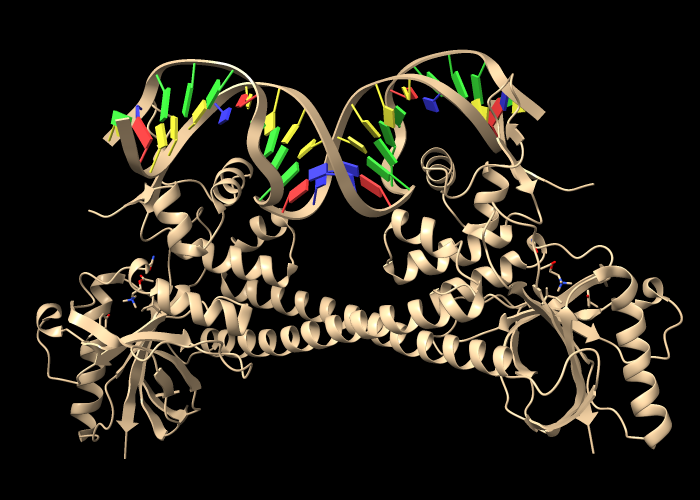
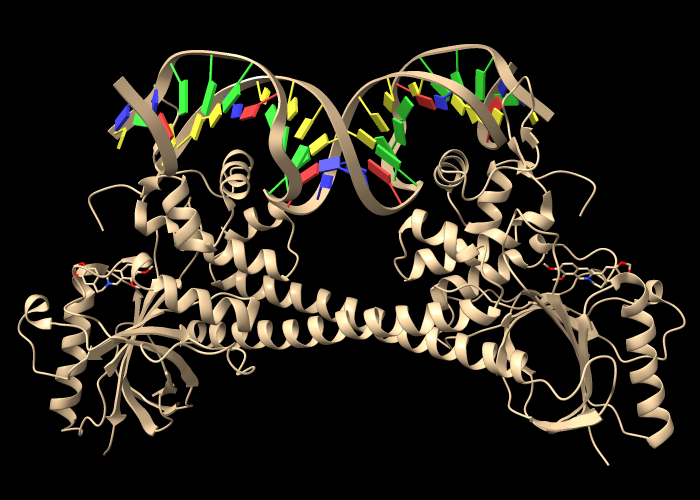
changed ESP example to use different structure with fewer missing atoms

Changed region(s): [[0.03, 0.09, 0.99, 0.93]]

diff --git a/docs/user/tutorials/binding-sites.html b/docs/user/tutorials/binding-sites.html
@@ -54,11 +54,13 @@ target="_blank">ChimeraX Tutorial</a>: Protein-Ligand Binding Sites</h3>
 <p>
 This tutorial explores some ways to examine the complementarity
 between proteins and their ligands, including drug molecules.
-See also:
-<a href="https://rbvi.github.io/chimera-tutorials/presentations/modules/chimerax-comp-structures/index.html#/"
-target="_blank">Structure Analysis and Comparison tutorial</a>,
+Related tutorials:
+<a href="/chimerax/data/conservation-coloring/conservation-coloring.html"
+target="_blank">Coloring by Sequence Conservation</a>,
 <a href="/chimerax/data/delta-opioid-jan2020/binding.html"
-target="_blank">Delta-Opioid Receptor tutorial</a>
+target="_blank">Delta-Opioid Receptor</a>,
+<a href="https://rbvi.github.io/chimera-tutorials/presentations/modules/chimerax-comp-structures/index.html#/"
+target="_blank">Structure Analysis and Comparison</a>
 </p>
 
 <a name="opening"></a>
@@ -113,7 +115,8 @@ or clicking certain icons.
 The &nbsp;<img class="iconbar" src="../tools/ui-icons/select.png"
 title="hand icon" alt="hand icon"> checkbox
 in the <a href="../tools/modelpanel.html"><b>Model Panel</b></a>
-shows when a model is selected. A minus sign means partially selected.
+shows when a model is selected, with three possible states: 
+checked, unchecked, and partially checked (shown with a dash on Mac).
 </blockquote>
 <p>
 In the <b>Non-standard residues</b> table,
@@ -489,10 +492,11 @@ border:solid rgb(168,191,191) 1px;padding:1px 3px">
 <span class="nowrap"><font style="border:solid black 1px;padding:1px 3px">
 <b>missing&nbsp;from structure</b></font></span>.
 </p><p>
-When done with this structure, close it and clear the <b>Log</b>:
+When done with this structure, close the session (both structure and sequence)
+and clear the <b>Log</b>:
 </p>
 <blockquote>
-<i>Command</i>:&nbsp;<b><a href="cxcmd:close">close</a></b>
+<i>Command</i>:&nbsp;<b><a href="cxcmd:close session">close session</a></b>
 <br>
 <i>Command</i>:&nbsp;<b><a href="cxcmd:log clear">log clear</a></b>
 </blockquote>
@@ -584,16 +588,22 @@ When finished viewing this pocket, close the structure:
 </blockquote>
 <p>
 Coloring by lipophilicity is also used to identify or
-highlight membrane-embedded regions. A &ldquo;belt&rdquo; of hydrophobicity
-may be visible where a protein sits in the membrane. Optionally, try using
-the icon <img class="iconbar" src="../tools/shortcut-icons/hydrophobicity.png">
+highlight membrane-embedded regions.
+Optionally, try using the icon 
+<img class="iconbar" src="../tools/shortcut-icons/hydrophobicity.png">
 or the command <a href="../commands/mlp.html"><b>mlp</b></a> 
 on a transmembrane protein (many examples:
 <a href="https://www.rcsb.org/structure/1PHO" target="_blank">1pho</a>,
 <a href="https://www.rcsb.org/structure/4XT3" target="_blank">4xt3</a>,
 <a href="https://www.rcsb.org/structure/1EYS" target="_blank">1eys</a>,
-<i>etc.</i>)
+<i>etc.</i>). A &ldquo;belt&rdquo; of hydrophobicity may be visible 
+where a protein sits in the membrane. For example:
 </p>
+<blockquote>
+<i>Command</i>:&nbsp;<b><a href="cxcmd:open 4xt3">open 4xt3</a></b>
+<br>
+<i>Command</i>:&nbsp;<b><a href="cxcmd:mlp">mlp</a></b>
+</blockquote>
 <table class="clRight">
 <tr><th>4xt3: MLP vs. Kyte-Doolittle coloring</th></tr>
 <tr><td>
@@ -629,7 +639,7 @@ because all types of amino acids contain both polar and nonpolar atoms.
 In other words, even the most hydrophobic residues include some 
 hydrophilic atoms, and <i>vice versa</i>.
 </p><p>
-When done with this structure, close all structures:
+If any structures are open, close them:
 </p>
 <blockquote>
 <i>Command</i>:&nbsp;<b><a href="cxcmd:close">close</a></b>
@@ -655,9 +665,10 @@ For example, the protein in structure
 <a href="https://www.rcsb.org/structure/1G74"
 target="_blank">1g74</a> has an oleic acid residue <b>OLA</b> in an
 interior pocket. The following commands open
-the structure as model #1, generate MLP map model #2,
-and use the map to color the surface cap #1.1.1 created by 
-<a href="../commands/clip.html">clipping</a> the surface model #1.1.
+the structure as model #1, generate MLP map model #2, hide the map isosurfaces,
+turn on <a href="../commands/clip.html">clipping</a> to slice the structure, 
+and use the map values to color the planar surface cap #1.1.1 created 
+by clipping surface model #1.1.
 The cap coloring parameters are the same as used for the rest of the surface,
 except 30% transparent:
 </p>
@@ -673,7 +684,23 @@ except 30% transparent:
 <i>Command</i>:&nbsp;<b><a href="cxcmd:wait 1">wait 1</a></b>
 <br>
 <i>Command</i>:&nbsp;<b><a href="cxcmd:color sample #1.1.1 map #2 palette lipophilicity range -20,20 transparency 30">color sample #1.1.1 map #2 palette lipophilicity range -20,20 transparency 30</a></b>
-<br>
+</blockquote>
+<p>
+The <b><a href="../commands/wait.html">wait</a></b> command
+is only needed in the context of a
+<a href="../commands/usageconventions.html#cxc-files">command file</a>,
+to force drawing the graphics to create the surface cap
+before it is colored by the map values;
+it can be omitted if the commands are entered one by one,
+as by clicking the links above.
+</p><p>
+Next, turn off clipping of the atomic model so that only the surface is clipped
+(<a href="../commands/clip.html#model">per-model clipping</a>),
+hide ribbons and atoms other than oleic acid, and color 
+the carbon atoms in oleic acid green:
+</p><p>
+</p>
+<blockquote>
 <i>Command</i>:&nbsp;<b><a href="cxcmd:clip model #!1 off">clip model #!1 off</a></b>
 <br>
 <i>Command</i>:&nbsp;<b><a href="cxcmd:hide ~:ola targ ar">hide ~:ola targ ar</a></b>
@@ -681,25 +708,18 @@ except 30% transparent:
 <i>Command</i>:&nbsp;<b><a href="cxcmd:color :ola & C green">color :ola & C green</a></b>
 </blockquote>
 <p>
-The <b><a href="../commands/wait.html">wait</a></b> command
-is needed only in the context of a
-<a href="../commands/usageconventions.html#cxc-files">command file</a>,
-to force drawing the graphics to create the surface cap
-before it is colored by the map values.
-The wait can be omitted if the commands are entered one by one.
-The subsequent commands color the cap,
-turn off clipping of the atomic model so that only the surface is clipped
-(<a href="../commands/clip.html#model">per-model clipping</a>),
-hide ribbons and atoms other than oleic acid, and color 
-the carbon atoms in oleic acid green.
-</p><p>
 The image was made after translating and rotating the clipping plane
 interactively <a href="ui.html#mousemode">with the mouse</a>
 <a href="../tools/mousemodes.html" title="Right Mouse Toolbar...">
 <img class="icon" border=1 src="../tools/mouse-icons/clip.png"></a>
 <a href="../tools/mousemodes.html" title="Right Mouse Toolbar...">
 <img class="icon" border=1 src="../tools/mouse-icons/cliprot.png"></a>.
+</p><p>
+When finished with this structure and map, close the session:
 </p>
+<blockquote>
+<i>Command</i>:&nbsp;<b><a href="cxcmd:close session">close session</a></b>
+</blockquote>
 
 <a name="esp"></a>
 <h3><a href="#top" class="nounder">&larr;</a>
@@ -719,27 +739,31 @@ This tutorial uses the simple method, as it does not require
 a separate calculation.
 </p><p>
 Open an assembly of
-<a href="https://www.rcsb.org/structure/3Q5S" target="_blank">3q5s</a>,
+<a href="https://www.rcsb.org/structure/3D6Y" target="_blank">3d6y</a>,
 the bacterial gene regulator BmrR:
 <blockquote>
-<i>Command</i>:&nbsp;<b><a href="cxcmd:open 3q5s from rcsb_bio maxAssemblies 1">open 3q5s from rcsb_bio maxAssemblies 1</a></b>
+<i>Command</i>:&nbsp;<b><a href="cxcmd:open 3d6y from rcsb_bio maxAssemblies 1">open 3d6y from rcsb_bio maxAssemblies 1</a></b>
 </blockquote>
 <table class="clRight">
 <tr><td>
-<img class="outline" src="bind5.png" alt="3q5s assembly" width="300px">
+<img class="outline" src="bind5.png" alt="3d6y assembly" width="300px">
 </td></tr>
 </table>
 <p>
 BmrR regulates multidrug resistance. In this structure, it is bound to DNA 
-and the small molecule acetylcholine. The <b>Non-standard residues</b> table 
-in the <b>Log</b> lists acetylcholine and glycerol; click the residue names
-<b>ACH</b> and <b>GOL</b> to see where they are in the structure.
-Hide glycerol and water: 
+and the positively charged alkaloid
+<a href="https://en.wikipedia.org/wiki/Berberine"
+target="_blank">berberine</a>. The <b>Non-standard residues</b> table 
+in the <b>Log</b> lists berberine and glycerol; click the residue names
+<b>BER</b> and <b>GOL</b> to see where they are in the structure.
+Hide glycerol, water, and protein atoms: 
 </p>
 <blockquote>
 <i>Command</i>:&nbsp;<b><a href="cxcmd:hide :gol">hide :gol</a></b>
 <br>
 <i>Command</i>:&nbsp;<b><a href="cxcmd:hide solvent">hide solvent</a></b>
+<br>
+<i>Command</i>:&nbsp;<b><a href="cxcmd:hide protein">hide protein</a></b>
 </blockquote>
 <p>
 To avoid any confusion from a hidden selection, clear it by Ctrl-clicking
@@ -766,7 +790,7 @@ style="display:inline-block; vertical-align:middle"><tr>
 </tr></table>.
 There are positive patches for binding the negatively charged DNA, 
 and a deep pocket of negative potential for binding 
-the positively charged small molecule acetylcholine.
+the positively charged small molecule berberine.
 </p><p>
 The <a href="../tools/moldisplay.html"><b>Molecule Display</b></a> tab
 of the <a href="../tools/toolbar.html"><b>Toolbar</b></a>
@@ -774,8 +798,7 @@ includes an <img class="iconbar" src="../tools/shortcut-icons/esp.png">
 icon for Coulombic coloring,
 but it will also apply to the DNA unless protein (only) is 
 <a href="../selection.html">selected</a> before the icon is clicked.
-</p>
-<p>
+</p><p>
 The remaining commands in this section are just examples of display settings
 that might be useful for figures. 
 </p><p>
@@ -810,13 +833,13 @@ The nucleotide change to stubs can also be done by clicking
 in the <a href="../tools/nucdisplay.html"><b>Nucleotides</b></a> tab
 of the <a href="../tools/toolbar.html"><b>Toolbar</b></a>.
 </p><p>
-Make the acetylcholine stand out 
+Make the berberine stand out 
 with fatter sticks and bright green carbons:
 </p>
 <blockquote>
-<i>Command</i>:&nbsp;<b><a href="cxcmd:size :ach stickrad .7">size :ach stickrad .7</a></b>
+<i>Command</i>:&nbsp;<b><a href="cxcmd:size :ber stickrad .7">size :ber stickrad .7</a></b>
 <br>
-<i>Command</i>:&nbsp;<b><a href="cxcmd:color C & :ach limegreen">color C & :ach limegreen</a></b>
+<i>Command</i>:&nbsp;<b><a href="cxcmd:color C & :ber limegreen">color C & :ber limegreen</a></b>
 </blockquote>
 <p>
 Use icons in the <a href="../tools/graphics.html"><b>Graphics</b></a> tab
@@ -846,5 +869,5 @@ To quit from ChimeraX, just close its main window or use a command:
 
 <hr>
 <address>UCSF Resource for Biocomputing, Visualization, and Informatics /
-December 2020</address>
+January 2021</address>
 </body></html>
